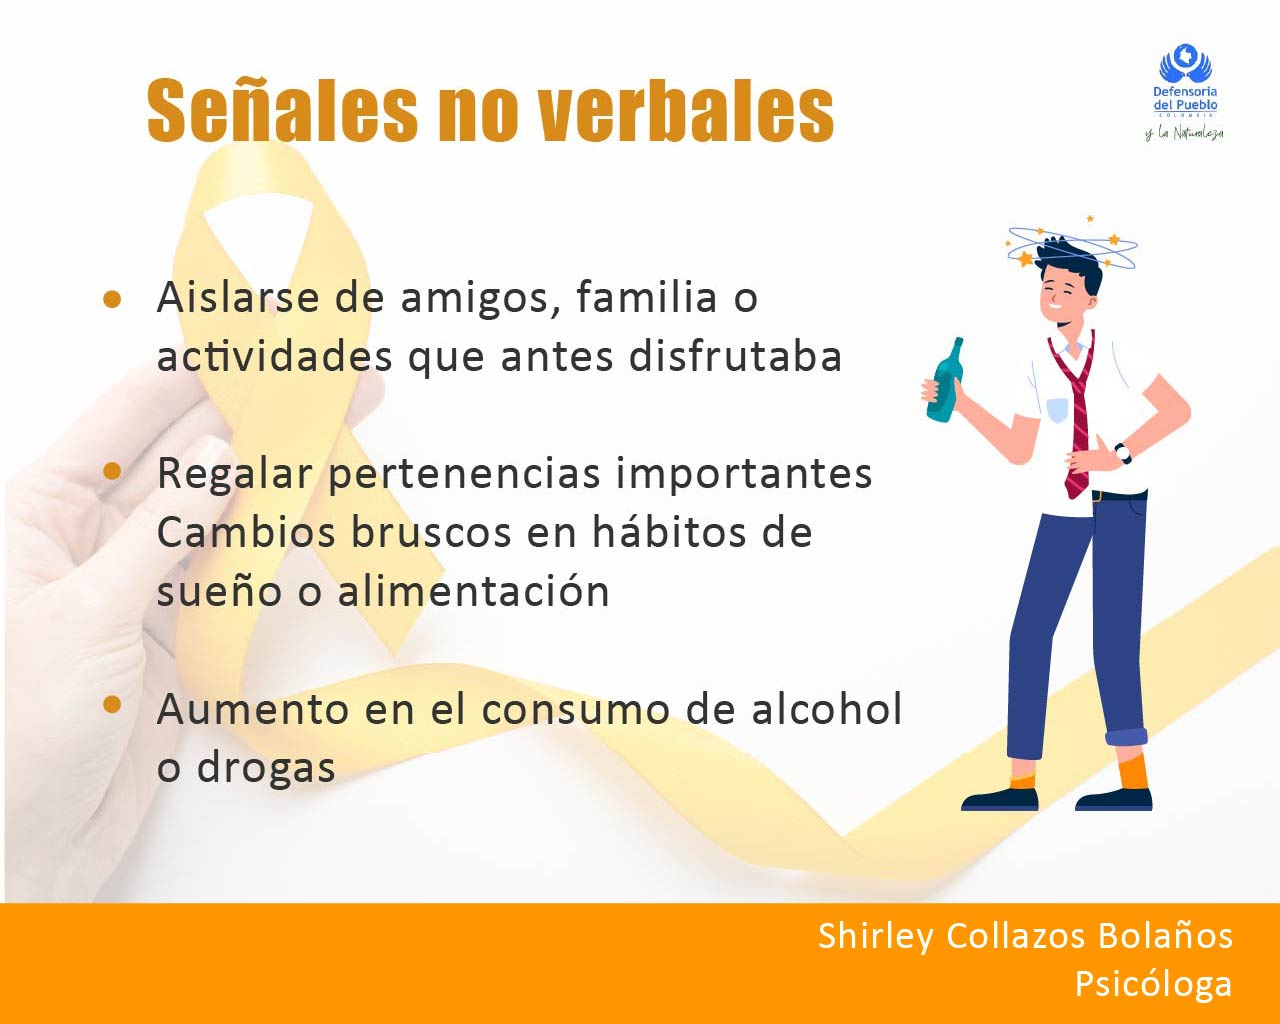
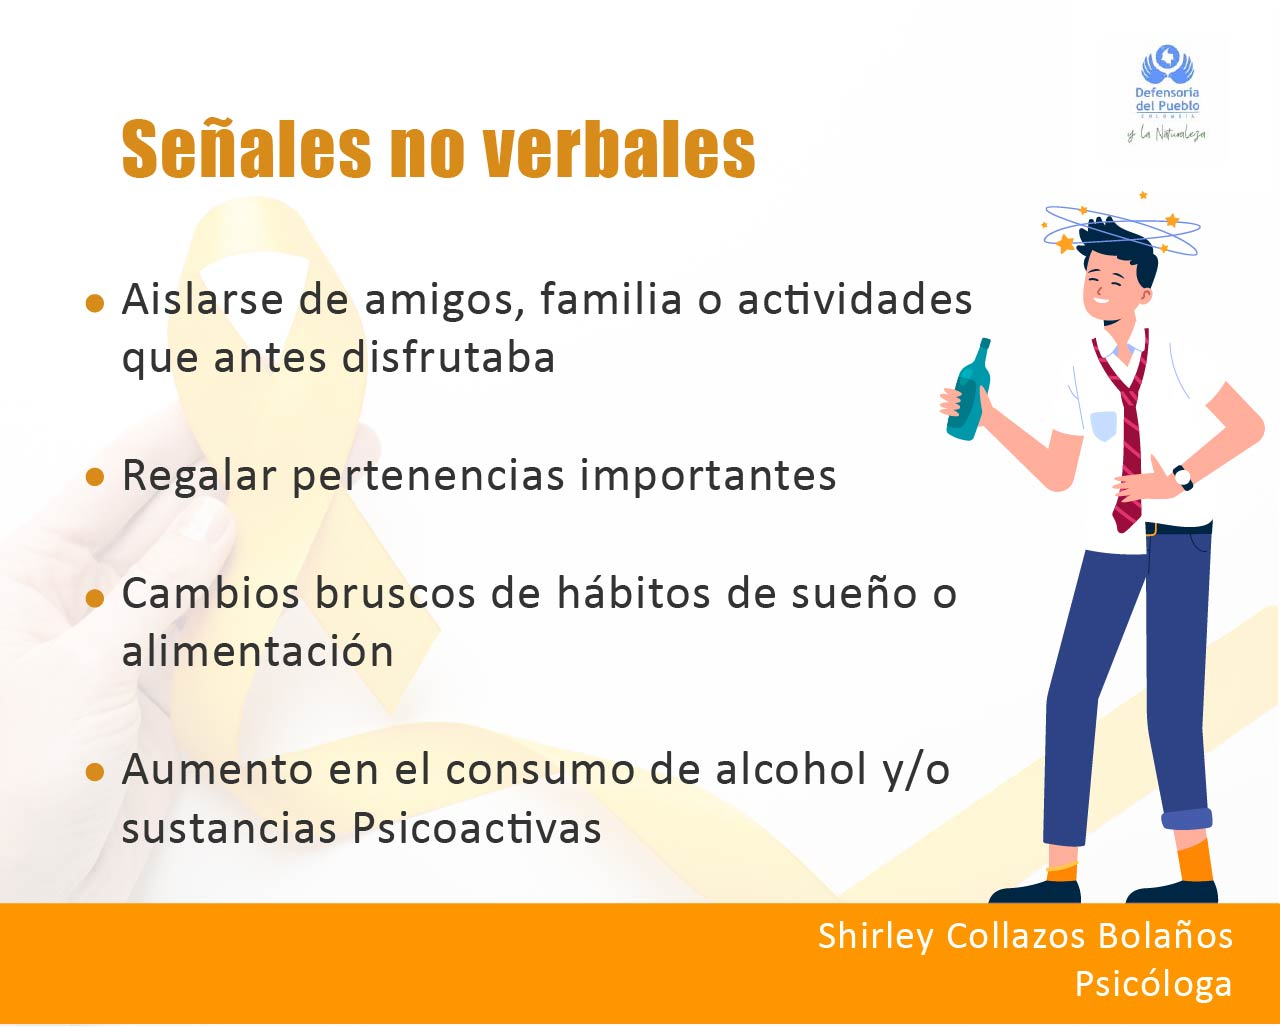
Update slide 5 image (v3.0.2)

diff --git a/index.html b/index.html
@@ -373,7 +373,7 @@
 <body>
 
   <div id="viewer"></div>
-  <div id="version">v3.0.1</div>
+  <div id="version">v3.0.2</div>
   <div id="counter"></div>
   <div id="nav">
     <button id="prev-btn" class="nav-btn" title="Anterior">‹</button>

diff --git a/CHANGELOG.md b/CHANGELOG.md
@@ -1,5 +1,8 @@
 # Registro de versiones
 
+## v3.0.2 — 2026-09-08
+- Actualización de la imagen de la diapositiva 5 (`5.jpg`).
+
 ## v3.0.1 — 2026-09-08
 - Actualización de contenido: imágenes 1, 3-8, 10-17, 19 y 20.
 
